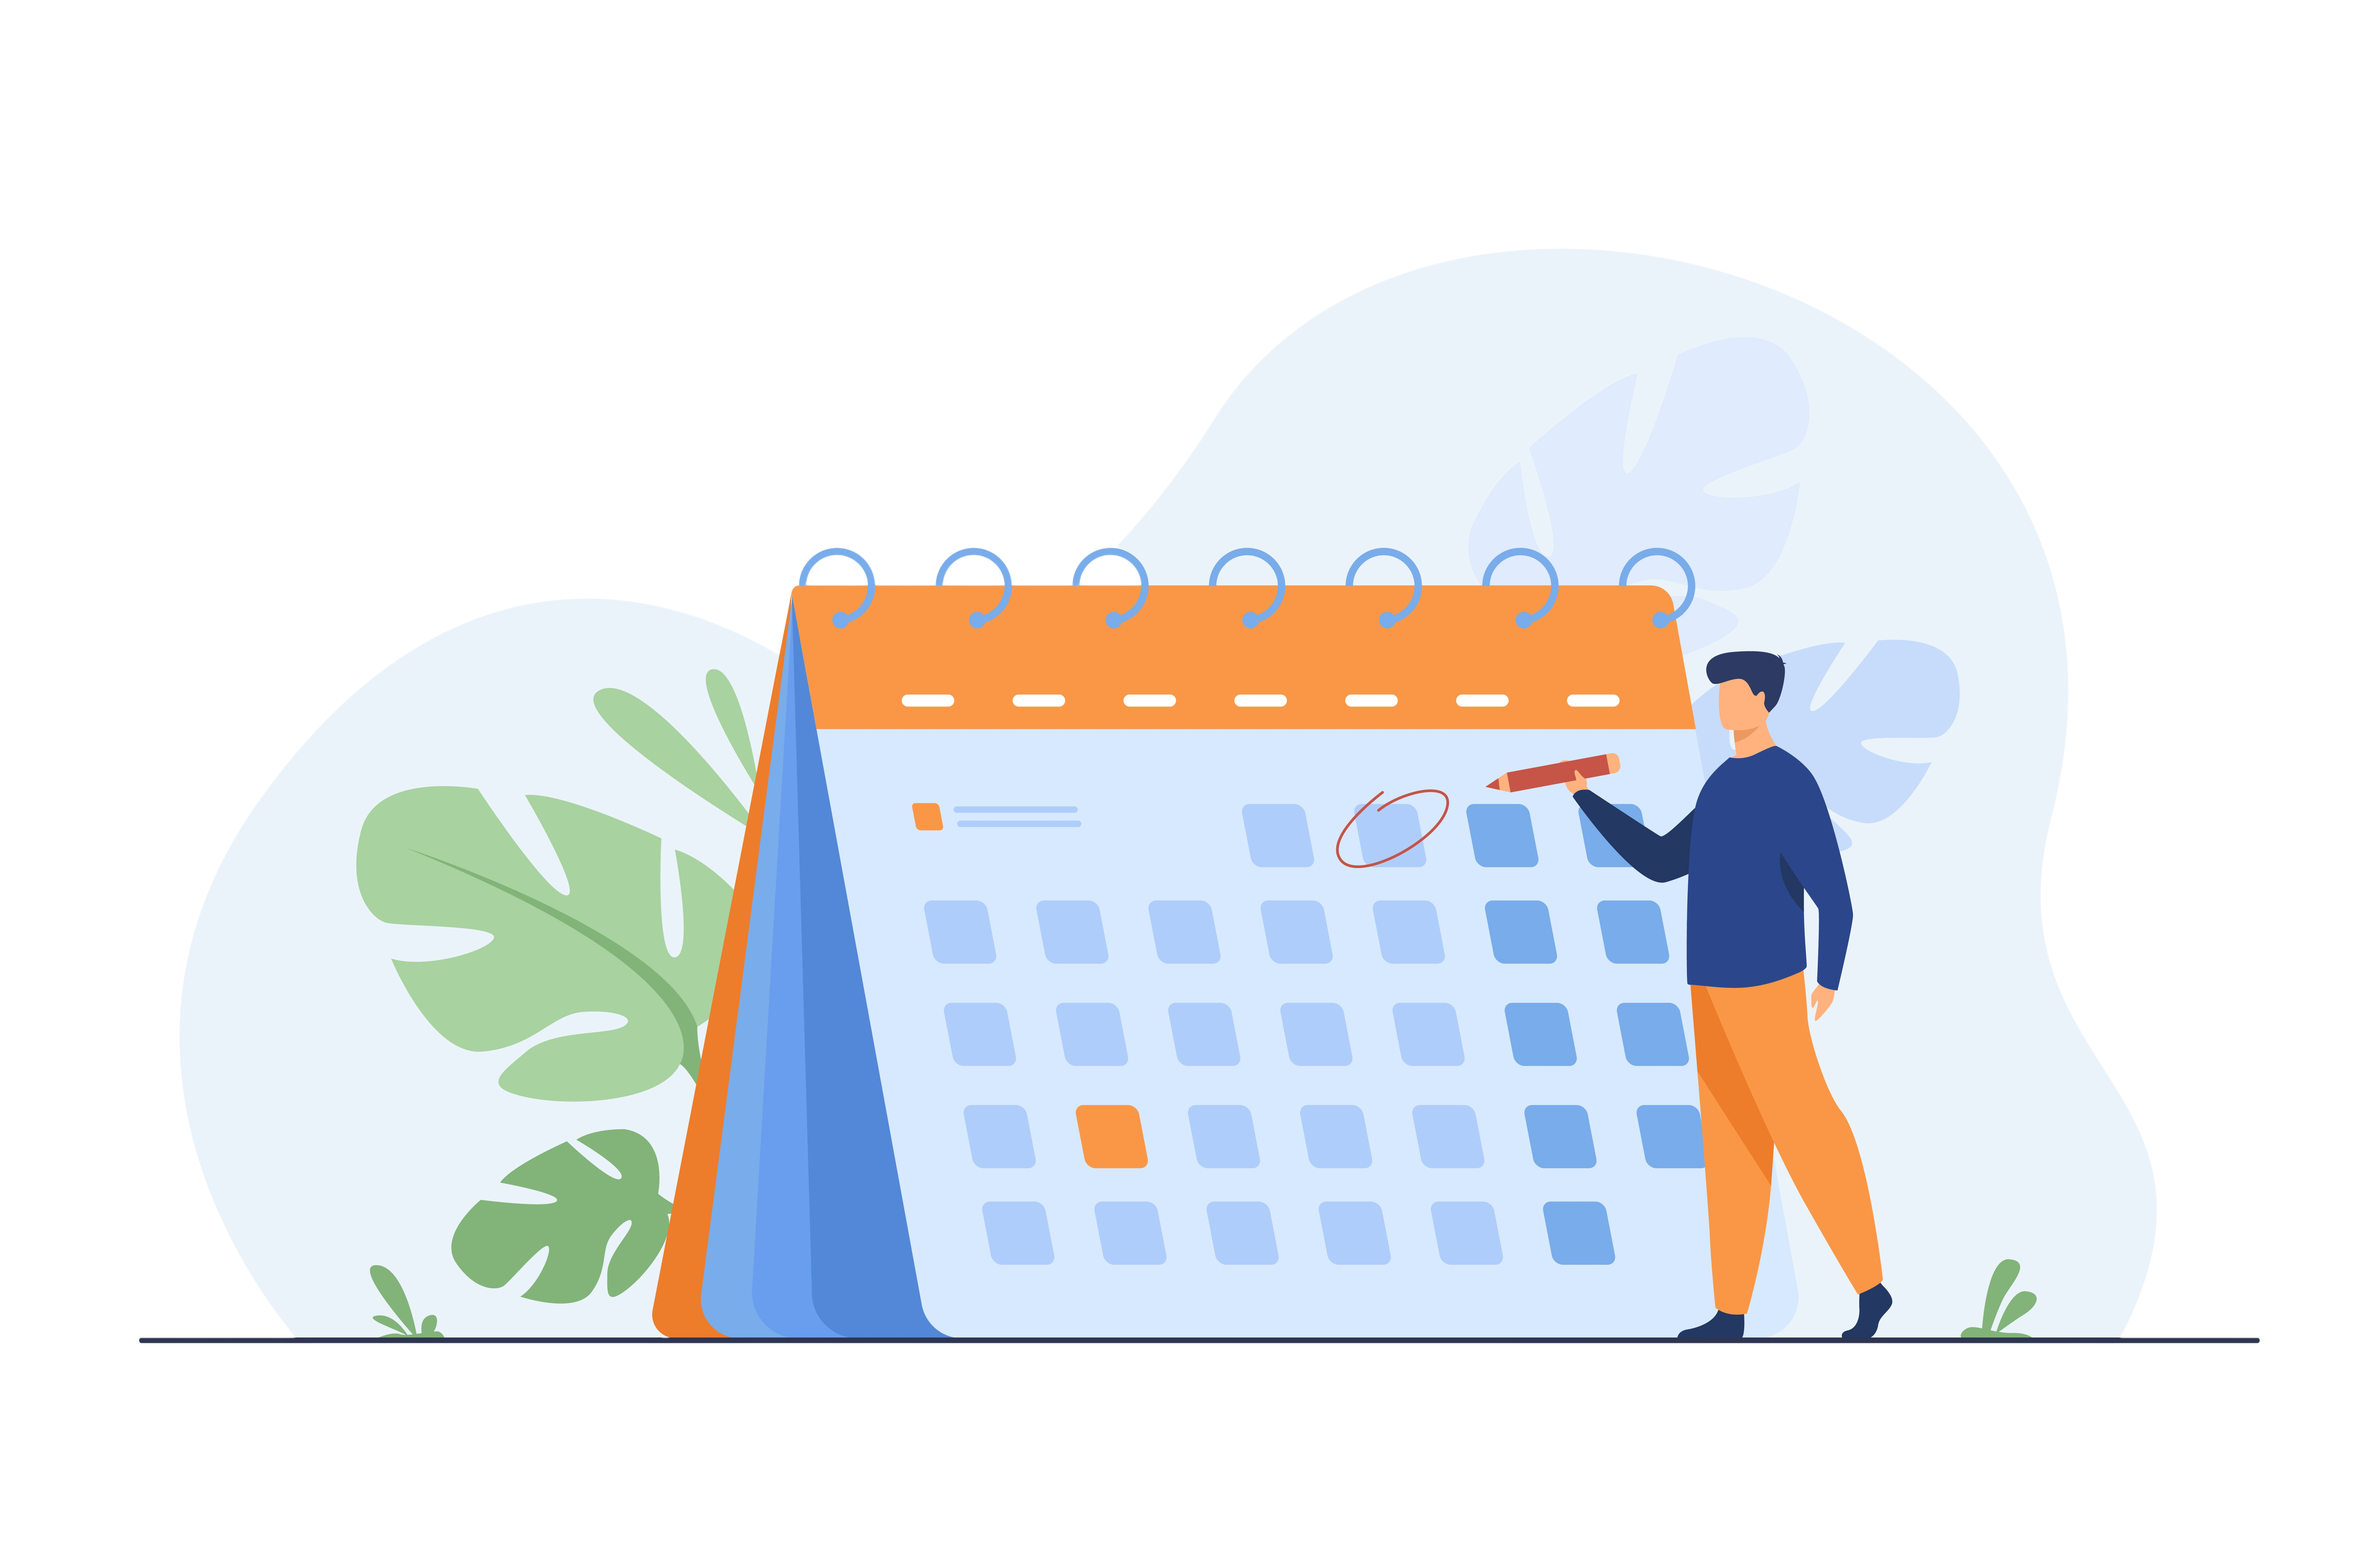
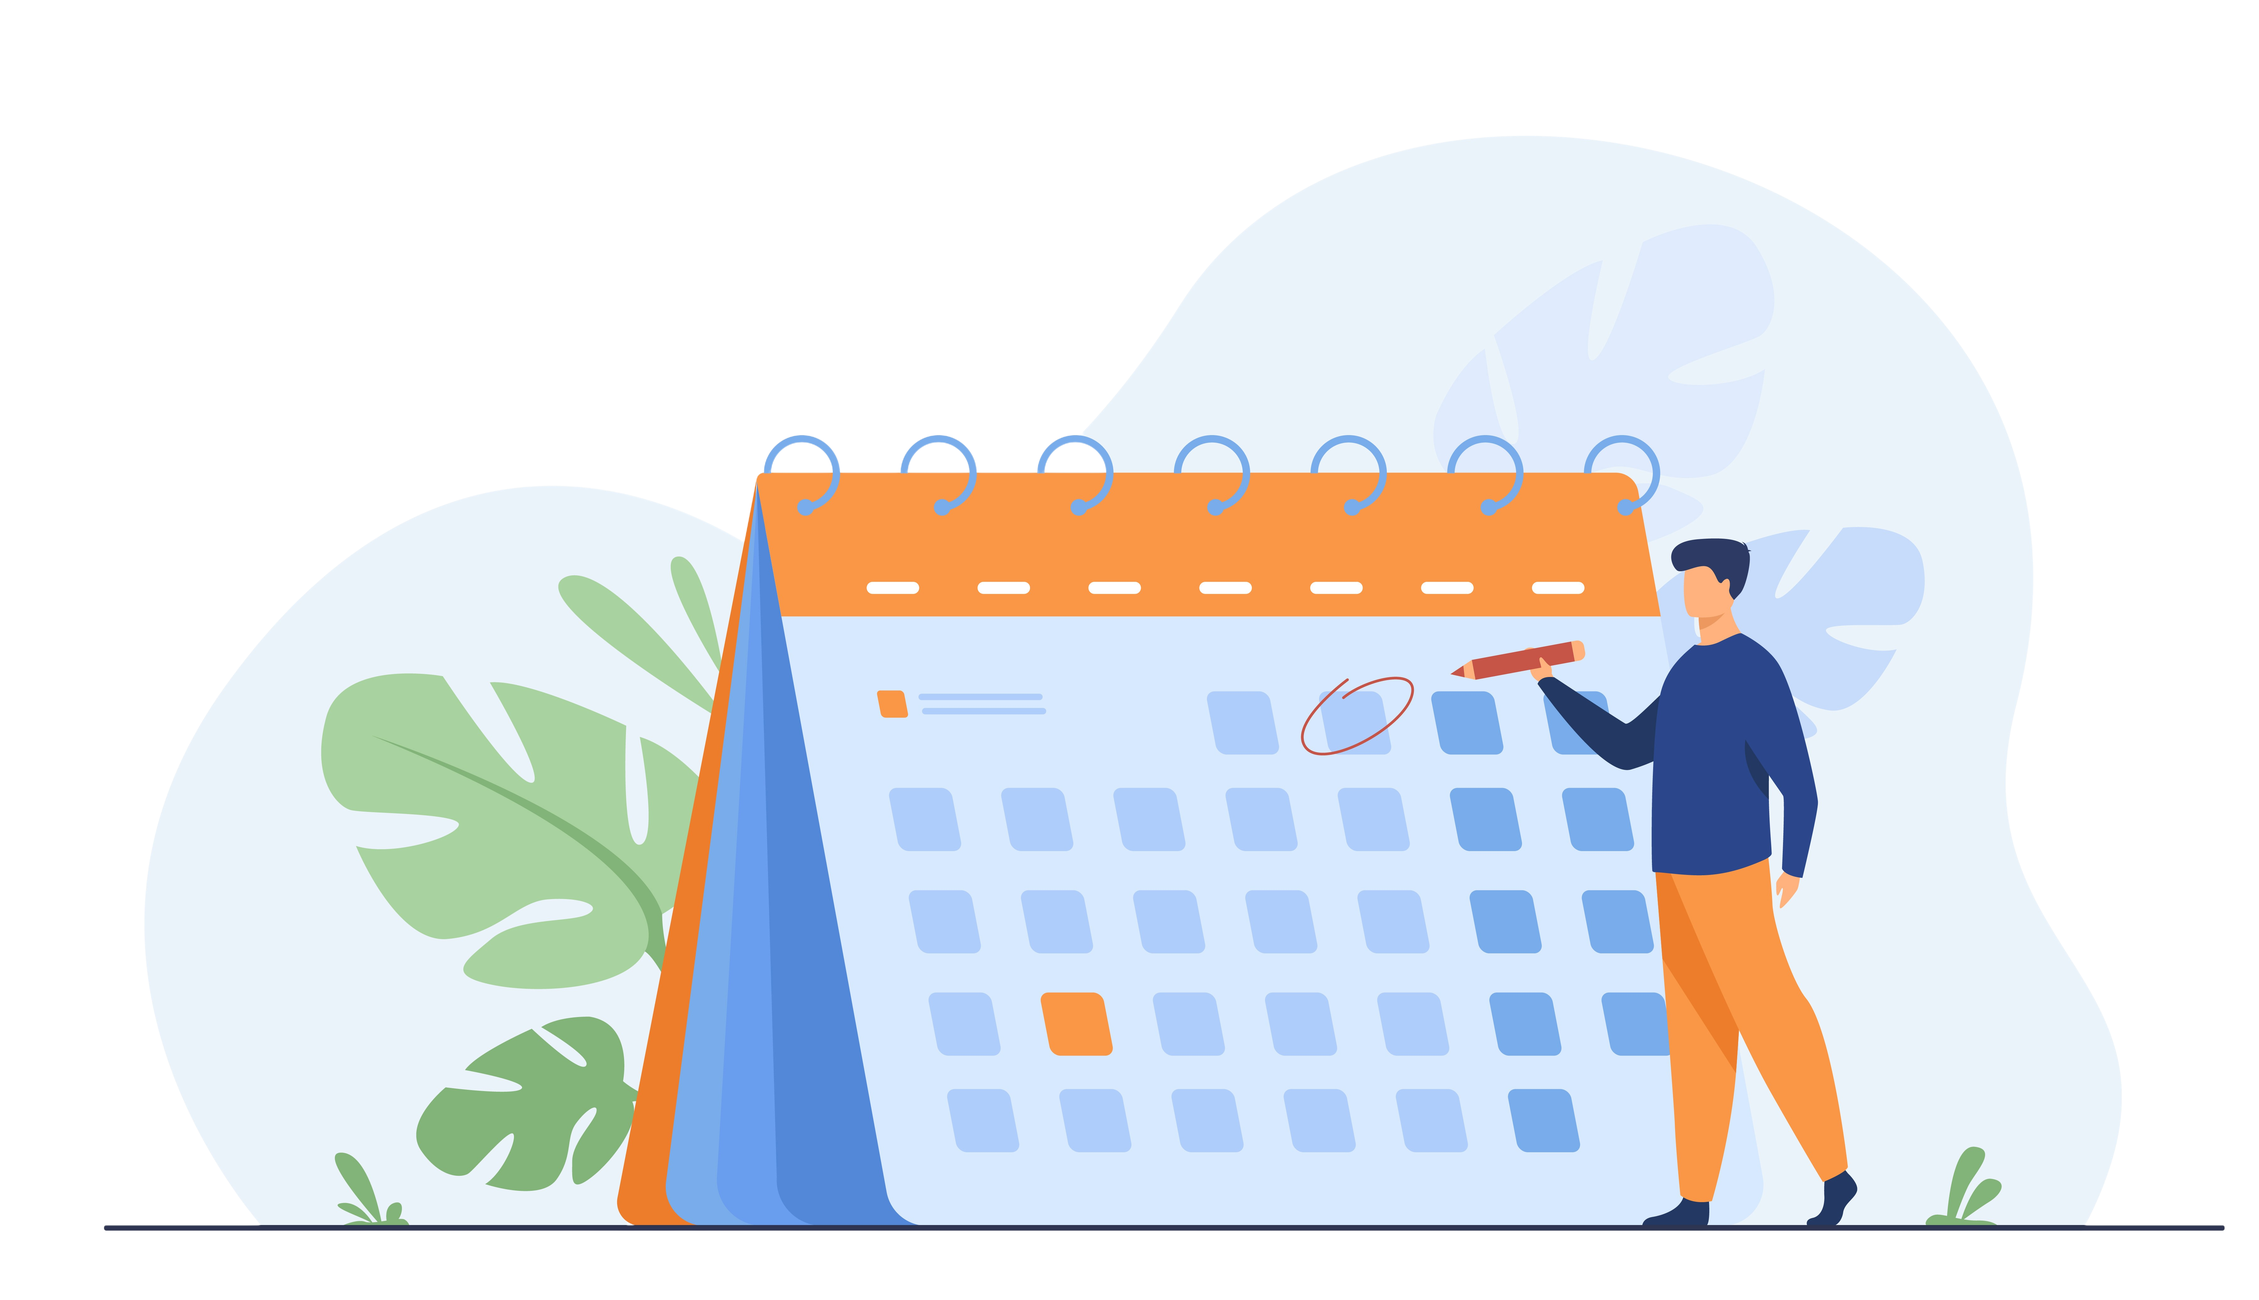
responsive

Changed region(s): [[0.0625, 0.3113, 0.9688, 0.965], [0.75, 0.1556, 0.7812, 0.2179]]

diff --git a/src/public/css/index.css b/src/public/css/index.css
@@ -28,8 +28,15 @@
 }
 
 .s-x0-8 {
-    width: 80%;
+    width: 70%;
     height: auto;
+}
+
+@media (max-width : 768px){
+    .s-x0-8 {
+        width: 100%;
+        height: auto;
+    }
 }
 
 .top-25 {
@@ -49,4 +56,9 @@
     height: fit-content; 
     border: 0; 
     background-color: transparent;
+}
+
+.my-8 {
+    margin-top: 32px;
+    margin-bottom: 32px;
 }
